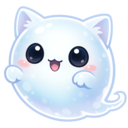
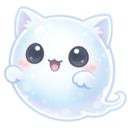
Rework transparency

diff --git a/PetForm.cs b/PetForm.cs
@@ -1,6 +1,7 @@
 using System;
 using System.Drawing;
 using System.IO;
+using System.Runtime.InteropServices;
 using System.Windows.Forms;
 
 namespace Pet;
@@ -8,8 +9,9 @@ namespace Pet;
 public sealed class PetForm : Form
 {
     private readonly Timer timer = new();
-    private readonly Image sprite;
+    private readonly Bitmap sprite;
     private readonly NotifyIcon trayIcon = new();
+    private readonly ContextMenuStrip trayMenu = new();
 
     private double x;
     private double y;
@@ -17,15 +19,21 @@ public sealed class PetForm : Form
     private const int OffsetX = 48;
     private const int OffsetY = 96;
     private const double FollowSpeed = 0.05;
+    private const byte WindowOpacity = 220;
 
+    private const int WS_EX_LAYERED = 0x00080000;
     private const int WS_EX_TOOLWINDOW = 0x00000080;
+
+    private const int ULW_ALPHA = 0x00000002;
+    private const byte AC_SRC_OVER = 0x00;
+    private const byte AC_SRC_ALPHA = 0x01;
 
     protected override CreateParams CreateParams
     {
         get
         {
             CreateParams cp = base.CreateParams;
-            cp.ExStyle |= WS_EX_TOOLWINDOW;
+            cp.ExStyle |= WS_EX_LAYERED | WS_EX_TOOLWINDOW;
             return cp;
         }
     }
@@ -36,27 +44,23 @@ public sealed class PetForm : Form
         string spritePath = Path.Combine(assetDir, "pet.png");
         string iconPath = Path.Combine(assetDir, "icon.ico");
 
-        sprite = Image.FromFile(spritePath);
+        sprite = new Bitmap(spritePath);
 
-        ClientSize = sprite.Size;
         FormBorderStyle = FormBorderStyle.None;
         StartPosition = FormStartPosition.Manual;
         ShowInTaskbar = false;
         TopMost = true;
-        DoubleBuffered = true;
 
-        BackColor = Color.Black;
-        TransparencyKey = Color.Black;
+        Width = sprite.Width;
+        Height = sprite.Height;
 
         x = Cursor.Position.X + OffsetX;
         y = Cursor.Position.Y - OffsetY;
-        Location = new Point((int)x, (int)y);
 
         trayIcon.Icon = new Icon(iconPath);
         trayIcon.Text = "Pet";
         trayIcon.Visible = true;
 
-        ContextMenuStrip trayMenu = new();
         trayMenu.Items.Add("Exit", null, (_, _) => Close());
         trayIcon.ContextMenuStrip = trayMenu;
 
@@ -65,11 +69,14 @@ public sealed class PetForm : Form
         timer.Interval = 8;
         timer.Tick += OnTick;
         timer.Start();
+
+        UpdateLayered();
     }
 
-    protected override void OnPaint(PaintEventArgs e)
+    protected override void OnShown(EventArgs e)
     {
-        e.Graphics.DrawImage(sprite, 0, 0, sprite.Width, sprite.Height);
+        base.OnShown(e);
+        UpdateLayered();
     }
 
     protected override void OnFormClosed(FormClosedEventArgs e)
@@ -79,6 +86,7 @@ public sealed class PetForm : Form
 
         trayIcon.Visible = false;
         trayIcon.Dispose();
+        trayMenu.Dispose();
 
         sprite.Dispose();
 
@@ -95,7 +103,7 @@ public sealed class PetForm : Form
         x += (targetX - x) * FollowSpeed;
         y += (targetY - y) * FollowSpeed;
 
-        Location = new Point((int)Math.Round(x), (int)Math.Round(y));
+        UpdateLayered();
     }
 
     private void OnPetMouseDown(object? sender, MouseEventArgs e)
@@ -107,6 +115,126 @@ public sealed class PetForm : Form
 
         x += 1000;
         y += 1000;
-        Location = new Point((int)Math.Round(x), (int)Math.Round(y));
+
+        UpdateLayered();
+    }
+
+    private void UpdateLayered()
+    {
+        IntPtr screenDc = GetDC(IntPtr.Zero);
+        IntPtr memDc = CreateCompatibleDC(screenDc);
+        IntPtr hBitmap = IntPtr.Zero;
+        IntPtr oldBitmap = IntPtr.Zero;
+
+        try
+        {
+            hBitmap = sprite.GetHbitmap(Color.FromArgb(0));
+            oldBitmap = SelectObject(memDc, hBitmap);
+
+            SIZE size = new(sprite.Width, sprite.Height);
+            POINT sourcePoint = new(0, 0);
+            POINT topPos = new((int)Math.Round(x), (int)Math.Round(y));
+
+            BLENDFUNCTION blend = new()
+            {
+                BlendOp = AC_SRC_OVER,
+                BlendFlags = 0,
+                SourceConstantAlpha = WindowOpacity,
+                AlphaFormat = AC_SRC_ALPHA
+            };
+
+            UpdateLayeredWindow(
+                Handle,
+                screenDc,
+                ref topPos,
+                ref size,
+                memDc,
+                ref sourcePoint,
+                0,
+                ref blend,
+                ULW_ALPHA
+            );
+        }
+        finally
+        {
+            if (oldBitmap != IntPtr.Zero)
+            {
+                SelectObject(memDc, oldBitmap);
+            }
+
+            if (hBitmap != IntPtr.Zero)
+            {
+                DeleteObject(hBitmap);
+            }
+
+            DeleteDC(memDc);
+            ReleaseDC(IntPtr.Zero, screenDc);
+        }
+    }
+
+    [DllImport("user32.dll", SetLastError = true)]
+    private static extern bool UpdateLayeredWindow(
+        IntPtr hwnd,
+        IntPtr hdcDst,
+        ref POINT pptDst,
+        ref SIZE psize,
+        IntPtr hdcSrc,
+        ref POINT pprSrc,
+        int crKey,
+        ref BLENDFUNCTION pblend,
+        int dwFlags
+    );
+
+    [DllImport("user32.dll", SetLastError = true)]
+    private static extern IntPtr GetDC(IntPtr hWnd);
+
+    [DllImport("user32.dll", SetLastError = true)]
+    private static extern int ReleaseDC(IntPtr hWnd, IntPtr hDC);
+
+    [DllImport("gdi32.dll", SetLastError = true)]
+    private static extern IntPtr CreateCompatibleDC(IntPtr hDC);
+
+    [DllImport("gdi32.dll", SetLastError = true)]
+    private static extern bool DeleteDC(IntPtr hdc);
+
+    [DllImport("gdi32.dll", SetLastError = true)]
+    private static extern IntPtr SelectObject(IntPtr hdc, IntPtr hgdiobj);
+
+    [DllImport("gdi32.dll", SetLastError = true)]
+    private static extern bool DeleteObject(IntPtr hObject);
+
+    [StructLayout(LayoutKind.Sequential)]
+    private struct POINT
+    {
+        public int X;
+        public int Y;
+
+        public POINT(int x, int y)
+        {
+            X = x;
+            Y = y;
+        }
+    }
+
+    [StructLayout(LayoutKind.Sequential)]
+    private struct SIZE
+    {
+        public int CX;
+        public int CY;
+
+        public SIZE(int cx, int cy)
+        {
+            CX = cx;
+            CY = cy;
+        }
+    }
+
+    [StructLayout(LayoutKind.Sequential, Pack = 1)]
+    private struct BLENDFUNCTION
+    {
+        public byte BlendOp;
+        public byte BlendFlags;
+        public byte SourceConstantAlpha;
+        public byte AlphaFormat;
     }
 }
